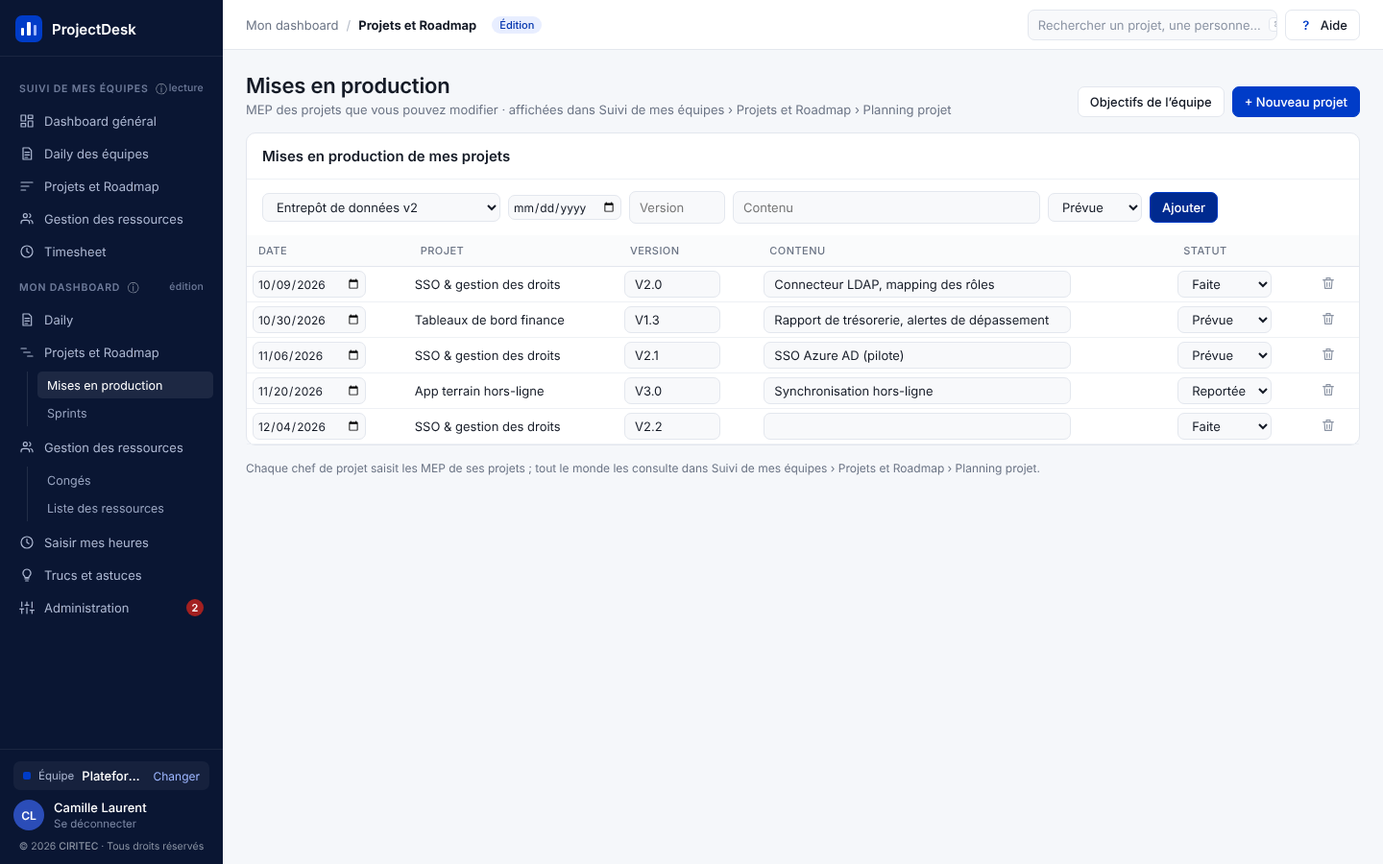
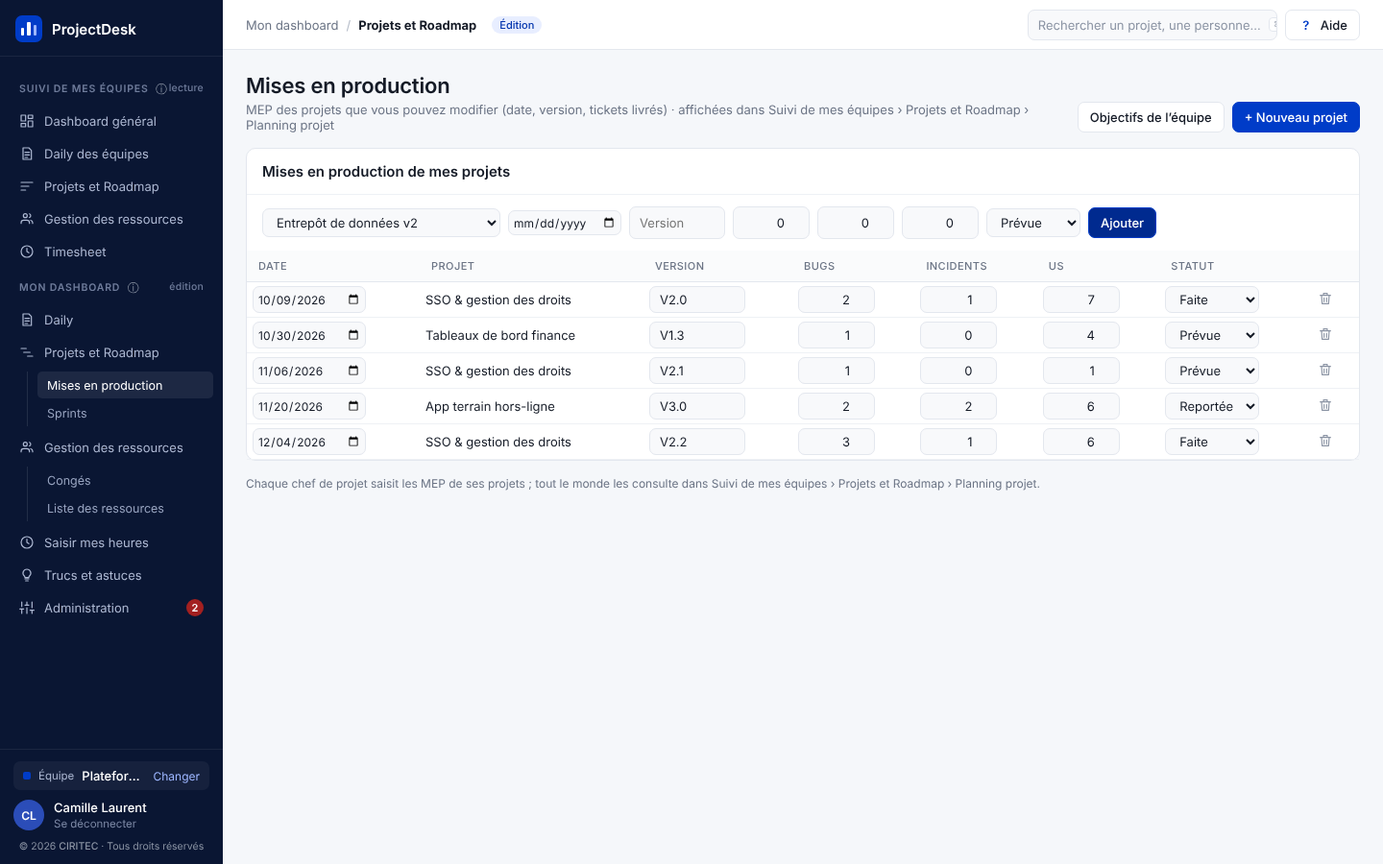
MEP : nombre de bugs, incidents et US livrés à la place du contenu (2.44, migration 044)
Claude-Session: https://claude.ai/code/session_016gJ86ah3wuZcBiGAqfo7RG

diff --git a/app/js/ecrans/mes-projets.js b/app/js/ecrans/mes-projets.js
@@ -7,6 +7,16 @@
    ============================================================ */
 'use strict';
 
+/* Tickets livrés par une mise en production (porteur 2026-10-24, migration 044) : le nombre de Bug, Incident
+   et US, dans cet ordre ; `champ` = colonne de mises_en_production, `cle` = nom du champ du formulaire d'ajout */
+const COMPTEURS_MEP = [
+  { cle: 'bugs', champ: 'nbBugs', libelle: 'Bugs', titre: 'Nombre de bugs livrés' },
+  { cle: 'incidents', champ: 'nbIncidents', libelle: 'Incidents', titre: 'Nombre d’incidents livrés' },
+  { cle: 'us', champ: 'nbUs', libelle: 'US', titre: 'Nombre d’US livrées' }
+];
+// Entier positif ou nul saisi dans un champ (vide ou invalide = 0)
+const nombreEntier = texte => Math.max(0, Math.floor(Number(texte) || 0));
+
 Ecrans.mesProjets = {
   titre: 'Projets et Roadmap',
   section: 'moi',
@@ -14,7 +24,8 @@ Ecrans.mesProjets = {
     const actions = `<button class="btn" data-action="ouvrirObjectifs">Objectifs de l’équipe</button>
       <button class="btn primaire" data-action="nouveauProjet">+ Nouveau projet</button>`;
     return `<div class="ecran">${C.entete('Mises en production',
-      'MEP des projets que vous pouvez modifier · affichées dans Suivi de mes équipes › Projets et Roadmap › Planning projet', actions)}${this.mep()}</div>`;
+      'MEP des projets que vous pouvez modifier (date, version, tickets livrés) · ' +
+      'affichées dans Suivi de mes équipes › Projets et Roadmap › Planning projet', actions)}${this.mep()}</div>`;
   },
 
   /* Formulaire d'ajout puis liste modifiable des MEP des projets que je peux modifier
@@ -23,17 +34,20 @@ Ecrans.mesProjets = {
     const projets = etat.d.projets.filter(peutEditerProjet).sort(parCode);
     if (!projets.length) return `<div class="carte">${C.vide('Vous ne pouvez modifier aucun projet : pas de mise en production à saisir.')}</div>`;
     const choixProjets = projets.map(p => ({ valeur: p.id, libelle: p.nom }));
+    const champsAjout = COMPTEURS_MEP.map(c =>
+      `<input class="champ champ-nombre" type="number" min="0" name="${c.cle}" value="0" title="${c.titre}">`).join('');
+    const entetesCompteurs = COMPTEURS_MEP.map(c => `<th class="num" title="${c.titre}">${c.libelle}</th>`).join('');
     const formulaire = `<form class="ligne-flex formulaire-mep" data-action-envoi="ajouterMep">
         ${C.liste(choixProjets, projets[0].id, 'class="champ champ-compact" name="projet"')}
         <input class="champ champ-date" type="date" name="jour" required>
         <input class="champ champ-version" name="version" placeholder="Version" maxlength="40">
-        <input class="champ champ-contenu" name="contenu" placeholder="Contenu" maxlength="500">
+        ${champsAjout}
         ${C.liste(STATUTS_MEP, 'prevue', 'class="champ champ-compact" name="statut"')}
         <button class="btn primaire">Ajouter</button></form>`;
     const lignes = misesEnProductionDe(projets).map(m => this.ligneMep(m)).join('');
     return `<div class="carte"><div class="carte-titre"><h2>Mises en production de mes projets</h2></div>${formulaire}
-        <table class="tableau tableau-sprints"><thead><tr><th>Date</th><th>Projet</th><th>Version</th><th>Contenu</th><th>Statut</th><th></th></tr></thead>
-          <tbody>${lignes || `<tr><td colspan="6" class="pale">Aucune mise en production saisie.</td></tr>`}</tbody></table></div>
+        <table class="tableau tableau-sprints"><thead><tr><th>Date</th><th>Projet</th><th>Version</th>${entetesCompteurs}<th>Statut</th><th></th></tr></thead>
+          <tbody>${lignes || `<tr><td colspan="8" class="pale">Aucune mise en production saisie.</td></tr>`}</tbody></table></div>
       <div class="discret texte-12">Chaque chef de projet saisit les MEP de ses projets ; tout le monde les consulte dans
         Suivi de mes équipes › Projets et Roadmap › Planning projet.</div>`;
   },
@@ -43,7 +57,8 @@ Ecrans.mesProjets = {
     return `<tr><td><input class="champ champ-date" type="date" value="${m.jour}" ${attr('jour')}></td>
       <td>${C.esc(p.nom)}</td>
       <td><input class="champ champ-version" value="${C.esc(m.version || '')}" maxlength="40" ${attr('version')}></td>
-      <td><input class="champ champ-contenu" value="${C.esc(m.contenu || '')}" maxlength="500" ${attr('contenu')}></td>
+      ${COMPTEURS_MEP.map(c =>
+        `<td><input class="champ champ-nombre" type="number" min="0" value="${m[c.champ] || 0}" ${attr(c.champ)}></td>`).join('')}
       <td>${C.liste(STATUTS_MEP, m.statut, `class="champ champ-compact" ${attr('statut')}`)}</td>
       <td>${C.boutonIcone('supprimer', 'supprimerMep', `data-id="${m.id}"`, 'Supprimer cette mise en production')}</td></tr>`;
   }
@@ -56,11 +71,12 @@ Object.assign(Actions, {
   ajouterMep(d, form) {
     const f = Object.fromEntries(new FormData(form));
     executer(() => Api.creer('mises_en_production', { projetId: f.projet, jour: f.jour, version: f.version.trim() || null,
-      contenu: f.contenu.trim() || null, statut: f.statut }), 'misesEnProduction');
+      ...Object.fromEntries(COMPTEURS_MEP.map(c => [c.champ, nombreEntier(f[c.cle])])), statut: f.statut }), 'misesEnProduction');
   },
   // Modification d'un champ ; la date est obligatoire (on remet l'ancienne valeur si elle est vidée)
   majMep(d, el) {
-    const valeur = el.value.trim() || null;
+    const compteur = COMPTEURS_MEP.some(c => c.champ === d.champ);
+    const valeur = compteur ? nombreEntier(el.value) : el.value.trim() || null;
     if (d.champ === 'jour' && !valeur) {
       el.value = etat.d.misesEnProduction.find(m => m.id === d.id).jour;
       return notifier('La date de la MEP est obligatoire', 'erreur');

diff --git a/app/index.html b/app/index.html
@@ -11,7 +11,7 @@
 <link href="https://fonts.googleapis.com/css2?family=IBM+Plex+Sans:wght@400;500;600;700&family=IBM+Plex+Mono:wght@400;500&display=swap" rel="stylesheet">
 <!-- ?v= : version des fichiers (= version du DAT), à changer à chaque livraison : force le navigateur
      à recharger le code au lieu de réutiliser une ancienne copie en mémoire. -->
-<link rel="stylesheet" href="css/theme.css?v=2.43">
+<link rel="stylesheet" href="css/theme.css?v=2.44">
 </head>
 <body>
   <!-- Toute l'interface est dessinée dans #app par js/coquille.js et js/ecrans/*.js -->
@@ -19,32 +19,32 @@
   <div id="notification" class="notification" role="status"></div>
 
   <!-- Ordre de chargement : configuration, outils, état, puis écrans (qui s'enregistrent dans Ecrans) -->
-  <script src="js/config.js?v=2.43"></script>
-  <script src="js/api.js?v=2.43"></script>
-  <script src="js/calculs.js?v=2.43"></script>
-  <script src="js/etat.js?v=2.43"></script>
-  <script src="js/composants.js?v=2.43"></script>
-  <script src="js/coquille.js?v=2.43"></script>
-  <script src="js/panneau-projet.js?v=2.43"></script>
-  <script src="js/modale.js?v=2.43"></script>
-  <script src="js/excel.js?v=2.43"></script>
-  <script src="js/roles.js?v=2.43"></script>
-  <script src="js/simulation.js?v=2.43"></script>
-  <script src="js/ecrans/connexion.js?v=2.43"></script>
-  <script src="js/ecrans/choix-equipe.js?v=2.43"></script>
-  <script src="js/ecrans/dashboard.js?v=2.43"></script>
-  <script src="js/ecrans/projets.js?v=2.43"></script>
-  <script src="js/ecrans/ressources.js?v=2.43"></script>
-  <script src="js/ecrans/administration.js?v=2.43"></script>
-  <script src="js/ecrans/timesheet.js?v=2.43"></script>
-  <script src="js/ecrans/daily-equipes.js?v=2.43"></script>
-  <script src="js/ecrans/daily.js?v=2.43"></script>
-  <script src="js/ecrans/mes-projets.js?v=2.43"></script>
-  <script src="js/ecrans/sprints.js?v=2.43"></script>
-  <script src="js/ecrans/conges.js?v=2.43"></script>
-  <script src="js/ecrans/liste-ressources.js?v=2.43"></script>
-  <script src="js/ecrans/mon-timesheet.js?v=2.43"></script>
-  <script src="js/ecrans/mon-admin.js?v=2.43"></script>
-  <script src="js/ecrans/astuces.js?v=2.43"></script>
+  <script src="js/config.js?v=2.44"></script>
+  <script src="js/api.js?v=2.44"></script>
+  <script src="js/calculs.js?v=2.44"></script>
+  <script src="js/etat.js?v=2.44"></script>
+  <script src="js/composants.js?v=2.44"></script>
+  <script src="js/coquille.js?v=2.44"></script>
+  <script src="js/panneau-projet.js?v=2.44"></script>
+  <script src="js/modale.js?v=2.44"></script>
+  <script src="js/excel.js?v=2.44"></script>
+  <script src="js/roles.js?v=2.44"></script>
+  <script src="js/simulation.js?v=2.44"></script>
+  <script src="js/ecrans/connexion.js?v=2.44"></script>
+  <script src="js/ecrans/choix-equipe.js?v=2.44"></script>
+  <script src="js/ecrans/dashboard.js?v=2.44"></script>
+  <script src="js/ecrans/projets.js?v=2.44"></script>
+  <script src="js/ecrans/ressources.js?v=2.44"></script>
+  <script src="js/ecrans/administration.js?v=2.44"></script>
+  <script src="js/ecrans/timesheet.js?v=2.44"></script>
+  <script src="js/ecrans/daily-equipes.js?v=2.44"></script>
+  <script src="js/ecrans/daily.js?v=2.44"></script>
+  <script src="js/ecrans/mes-projets.js?v=2.44"></script>
+  <script src="js/ecrans/sprints.js?v=2.44"></script>
+  <script src="js/ecrans/conges.js?v=2.44"></script>
+  <script src="js/ecrans/liste-ressources.js?v=2.44"></script>
+  <script src="js/ecrans/mon-timesheet.js?v=2.44"></script>
+  <script src="js/ecrans/mon-admin.js?v=2.44"></script>
+  <script src="js/ecrans/astuces.js?v=2.44"></script>
 </body>
 </html>

diff --git a/tests/parcours.js b/tests/parcours.js
@@ -367,14 +367,23 @@ const verifier = (nom, condition, detail = '') => { resultats.push({ nom, ok: !!
     await page.selectOption('form[data-action-envoi="ajouterMep"] [name=projet]', idProjetMep);
     await page.fill('form[data-action-envoi="ajouterMep"] [name=jour]', '2026-12-04');
     await page.fill('form[data-action-envoi="ajouterMep"] [name=version]', 'V2.2');
+    await page.fill('form[data-action-envoi="ajouterMep"] [name=bugs]', '3');
+    await page.fill('form[data-action-envoi="ajouterMep"] [name=incidents]', '1');
+    await page.fill('form[data-action-envoi="ajouterMep"] [name=us]', '5');
     await page.click('form[data-action-envoi="ajouterMep"] button'); await page.waitForTimeout(300);
     const ajoutee = await page.evaluate(() => etat.d.misesEnProduction.find(m => m.version === 'V2.2'));
     await page.selectOption(`[data-action-change="majMep"][data-id="${ajoutee.id}"][data-champ="statut"]`, 'faite'); await page.waitForTimeout(300);
     const statutModifie = await page.evaluate(id => etat.d.misesEnProduction.find(m => m.id === id).statut, ajoutee.id);
+    // Tickets livrés (migration 044) : à la place du contenu ; un compteur se modifie dans la ligne
+    await page.fill(`[data-action-change="majMep"][data-id="${ajoutee.id}"][data-champ="nbUs"]`, '6');
+    await page.press(`[data-action-change="majMep"][data-id="${ajoutee.id}"][data-champ="nbUs"]`, 'Tab'); await page.waitForTimeout(300);
+    const tickets = await page.evaluate(id => { const m = etat.d.misesEnProduction.find(x => x.id === id); return [m.nbBugs, m.nbIncidents, m.nbUs].join('/'); }, ajoutee.id);
     await capture('09b-saisie-mep');
     await page.click(`[data-action="supprimerMep"][data-id="${ajoutee.id}"]`); await page.waitForTimeout(300);
     verifier('Mon dashboard › Projets et Roadmap › MEP : ajout, changement de statut et suppression d’une MEP',
       mepAvant >= 2 && ajoutee.statut === 'prevue' && statutModifie === 'faite' && await nbMep() === mepAvant, `${mepAvant} / ${statutModifie}`);
+    verifier('MEP : nombre de bugs, d’incidents et d’US livrés (à la place du contenu), modifiable', ajoutee.nbBugs === 3 && ajoutee.nbIncidents === 1
+      && ajoutee.nbUs === 5 && tickets === '3/1/6' && !(await page.$('[data-action-change="majMep"][data-champ="contenu"]')), tickets);
     await page.click('[data-action="ouvrirObjectifs"]'); await page.waitForTimeout(200);
     await page.fill('form[data-action-envoi="ajouterObjectif"] input', 'Objectif de test'); await page.click('form[data-action-envoi="ajouterObjectif"] button');
     await page.waitForTimeout(300);

diff --git a/tests/serveur-simule.js b/tests/serveur-simule.js
@@ -204,7 +204,7 @@ function amorcer() {
   bd.mises_en_production = [['PF-14', '2026-10-09', 'V2.0', 'Connecteur LDAP, mapping des rôles', 'faite'],
     ['DA-08', '2026-10-30', 'V1.3', 'Rapport de trésorerie, alertes de dépassement', 'prevue'], ['PF-14', '2026-11-06', 'V2.1', 'SSO Azure AD (pilote)', 'prevue'],
     ['MO-21', '2026-11-20', 'V3.0', 'Synchronisation hors-ligne', 'reportee']]
-    .map(([code, jour, version, contenu, statut]) => ({ id: uuid(), projet_id: idProjet(code), jour, version, contenu, statut }));
+    .map(([code, jour, version, contenu, statut]) => ({ id: uuid(), projet_id: idProjet(code), jour, version, contenu, statut, nb_bugs: contenu.length % 4, nb_incidents: contenu.length % 3, nb_us: contenu.length % 7 + 1 }));
   bd.notes_daily_projet = [
     { user_id: thomas.id, jour: jourJ, projet_id: idProjet('PF-14'), texte: 'Hier\n- Connecteur LDAP : corrections de revue\n\nAujourd’hui\n- Mapping des rôles applicatifs\n\nBlocages\n- Identifiants de recette expirés' },
     { user_id: camille.id, jour: jourJ, projet_id: idProjet('PF-14'), texte: 'Hier\n- Revue de la PR connecteur LDAP avec Thomas\n\nAujourd’hui\n- Finaliser le plan de migration SSO\n\nBlocages\n- Accès annuaire côté DSI toujours en attente' }];

diff --git a/app/js/config.js b/app/js/config.js
@@ -272,7 +272,8 @@ const GUIDE_ECRANS = {
   daily: ['Un daily par projet où vous êtes affecté(e) : Hier, Aujourd’hui, Blocages ; tapez, il s’enregistre automatiquement.',
     'Un jour de congé (Congés), aucun daily n’est attendu. Le champ « Hier » rappelle ce que vous aviez prévu la veille.'],
   mesProjets: ['« + Nouveau projet » crée un projet dans votre équipe ; un projet se modifie depuis Liste des ressources.',
-    'Saisissez les mises en production (date, version, contenu, statut) des projets que vous pouvez modifier ; chaque champ s’enregistre dès qu’il change.',
+    'Saisissez les mises en production (date, version, nombre de bugs, d’incidents et d’US livrés, statut) des projets que vous pouvez modifier ; ' +
+    'chaque champ s’enregistre dès qu’il change.',
     'Tout le monde les voit dans Suivi de mes équipes › Projets et Roadmap › Planning projet (repères ▲).'],
   mesSprints: ['Créez les sprints de chaque projet : numéro, année, version, date de début et de fin ; chaque champ s’enregistre dès qu’il change.',
     'Ils s’affichent dans Suivi de mes équipes › Projets et Roadmap › Planning projet.'],

diff --git a/app/js/ecrans/projets.js b/app/js/ecrans/projets.js
@@ -104,7 +104,9 @@ const PlanningProjet = {
   // Repère d'une mise en production : ▲ + version à sa date, couleur de son statut, détail en infobulle
   repereMep(m, per) {
     const statut = STATUTS_MEP.find(x => x.valeur === m.statut) || STATUTS_MEP[0];
-    const titre = `MEP ${m.version || ''} · ${Calculs.formatCourt(m.jour)} · ${statut.libelle}${m.contenu ? ' : ' + m.contenu : ''}`;
+    // Tickets livrés (migration 044) : « 5 US · 3 bugs · 1 incidents », vide si aucun
+    const tickets = m.nbBugs || m.nbIncidents || m.nbUs ? ` : ${m.nbUs || 0} US · ${m.nbBugs || 0} bugs · ${m.nbIncidents || 0} incidents` : '';
+    const titre = `MEP ${m.version || ''} · ${Calculs.formatCourt(m.jour)} · ${statut.libelle}${tickets}`;
     return `<div class="gantt-mep" style="left:${per.position(m.jour)}%;color:${TONS[statut.ton].texte}" title="${C.esc(titre)}">▲ ${C.esc(m.version || 'MEP')}</div>`;
   },
   anneeMois(iso) { const d = Calculs.depuisIso(iso); return [d.getFullYear(), d.getMonth()]; },

diff --git a/app/css/theme.css b/app/css/theme.css
@@ -149,7 +149,7 @@ table.tableau { width: 100%; border-collapse: collapse; }
 .couleur-primaire { color: var(--primaire); }
 /* Saisie des MEP (Mon dashboard › Projets et Roadmap › Mises en production), 2026-10-23 */
 .formulaire-mep { gap: 8px; padding: 12px 16px; flex-wrap: wrap; }
-.champ.champ-version { width: 100px; } .champ.champ-contenu { width: 320px; }
+.champ.champ-version { width: 100px; } .champ.champ-nombre { width: 80px; text-align: right; }
 .gantt-jour { position: absolute; top: 0; bottom: 0; width: 1px; background: var(--primaire); opacity: .5; }
 .gantt-mois { display: grid; grid-template-columns: 300px minmax(0, 1fr); border-bottom: 1px solid var(--bordure); background: var(--fond-entete); }
 .gantt-mois .mois { display: flex; } .gantt-mois .mois div { border-left: 1px solid var(--bordure-fine); padding: 9px 8px; font-size: 11px; text-transform: uppercase; letter-spacing: .04em; color: var(--discret); }

diff --git a/docs/DAT.md b/docs/DAT.md
@@ -158,6 +158,7 @@
 | 2.41    | 2026-10-23 | **Capacité retirée** (porteur : « supprime tout ce qui est en rapport avec plan de charge, capacité ») : menu, écran `capacite.js`, pop-in « Méthode de calcul Scrum », droit `onglet_conges_capacite` (ligne de la matrice), calculs `velocite` / `repartitionSprint`, constantes `REPARTITION_SPRINT` / `SPRINTS_MOYENNE_VELOCITE`, aides, tests et captures 11b-11c supprimés. **Conservés** : le champ `capacite` (%) de la fiche d'une personne (il sert aux heures attendues du timesheet), `Calculs.capacitePeriode` / `capaciteScrum` (exemples chiffrés de Trucs et astuces), et le glossaire des KPI Agile. 135 contrôles. **Aucune donnée touchée (règle n°8)** : `repartitions_sprint` et les points des sprints restent en base, non lus. |
 | 2.42    | 2026-10-23 | **Périmètre de lecture et de modification par rôle** (porteur : « Thomas n'est pas affecté au projet CDO mais il peut paramétrer des sprints, il voit les éléments CDO … le responsable d'une équipe ne peut pas voir les éléments d'une autre équipe » ; règles validées « oui ») : migrations **042** et **043** (fonctions et règles seulement, **aucune donnée touchée** : 3 équipes, 7 projets, 7 personnes, 14 affectations, 155 absences, 1 temps, 2 sprints avant et après). Avant : toute personne membre d'UNE équipe lisait les projets, personnes, absences et temps de TOUTES les équipes (`est_membre_equipe`), et tout membre d'une équipe modifiait / supprimait ses projets. Maintenant : administrateur et créateur tout ; direction / responsable leur unité et sous-unités ; projet / utilisateur eux-mêmes, leurs projets et les personnes de ces projets ; heures et feuilles de temps : la personne et ceux qui gèrent son unité ; un rattachement (`membres_equipe`) ne donne aucun droit mais permet au responsable d'accueil de voir la fiche et les absences. Modifier ou supprimer un projet : responsable / direction de l'unité ou affecté Chef de projet / Membre. Côté écran : `equipesGerees()` et `appliquerPerimetre()` (`etat.js`) font voir à la **simulation** exactement ce que verrait la personne ; `travailleSurLeProjet` ne retient plus « membre de l'équipe ». Les écrans (Liste des ressources, Daily, Dashboard…) n'affichent donc que ce qui est lisible. 137 contrôles (§ 3, § 5) |
 | 2.43    | 2026-10-24 | **Les projets s'affichent par leur nom, plus par leur code** (porteur : « je ne veux plus en front qu'on affiche l'ID (APP-02) des projets, je veux leurs noms ») : code retiré de tous les écrans (Timesheet de Suivi — colonne Projets en étiquettes de noms, Liste des ressources, panneau projet, Daily, Daily des équipes, Projets et Roadmap, Mes projets, Sprints, Gestion des ressources, Rôles, fenêtres d'affectation et d'envoi du daily, listes déroulantes). Le code reste en base, dans la recherche et dans les exports Excel du daily ; les codes des objectifs, résultats clés et équipes sont inchangés. Aucune donnée touchée. 137 contrôles |
+| 2.44    | 2026-10-24 | **Mises en production : tickets livrés à la place du contenu** (porteur : « Mon dashboard › mise en production : à la place de contenu je veux le nombre de tickets Bug, Incident, US livrés ») : migration **044** additive (colonnes `nb_bugs`, `nb_incidents`, `nb_us`, entier ≥ 0, défaut 0 ; **aucune donnée touchée**, table vide avant et après ; la colonne `contenu` est conservée mais n'est plus affichée) ; cache de la Data API rechargé ; Mon dashboard › Projets et Roadmap › Mises en production : trois colonnes numériques Bugs / Incidents / US (ajout et modification en ligne) ; l'infobulle du repère ▲ du Planning projet affiche « 5 US · 3 bugs · 1 incidents ». 138 contrôles |
 | 1.44    | 2026-09-27 | Calcul type Scrum : formule déplacée dans une pop-in (bouton « Comment est-ce calculé ? » en haut à droite), avec un exemple chiffré sur CDO (membres, jours ouvrés, absences, cérémonies, focus) (§ 2.1, § 3.3) |
 
 ---
@@ -281,7 +282,7 @@ règlent l'**affichage** ; ce qu'on peut modifier reste contrôlé par la base (
 | Écran | Fichier | Contenu | Capture |
 |-------|---------|---------|---------|
 | `daily` | `daily.js` | **Un daily par projet** où je suis affecté(e) (Chef de projet, Membre ; projet en cours) — maquette `daily-par-projet/` : par projet trois champs **Hier (la veille)**, **Aujourd’hui**, **Blocages** (enregistrement auto après 0,8 s), « Hier » rappelle l'« Aujourd'hui » de la veille ; « n / N projets renseignés » ; **lié aux congés** : jour d'absence d'une journée → « aucun daily attendu », cartes repliées (demi-journée : saisie ouverte) ; historique (projets renseignés ou congé) | `08-daily.png` |
-| `mesProjets` | `mes-projets.js` | Menu **Projets et Roadmap** à sous-menus dans la barre latérale (Mises en production, Sprints), comme Gestion des ressources (2.37-2.38, maquettes `menu-projets-roadmap/`, `planning-projet/`) : **Mises en production** (2.33 : saisie des MEP des projets que je peux modifier — `peutEditerProjet` — projet, date, version, contenu, statut `STATUTS_MEP` ; chaque champ s'enregistre dès qu'il change ; affichées dans Suivi › Projets et Roadmap › Planning projet) ; boutons « + Nouveau projet » et « Objectifs de l'équipe ». Sous-menu Gantt retiré (2.38 : le planning projet est dans Suivi de mes équipes). Un projet se modifie depuis Liste des ressources | `09-mes-projets.png`, `09b-saisie-mep.png`, `10-panneau-projet.png` |
+| `mesProjets` | `mes-projets.js` | Menu **Projets et Roadmap** à sous-menus dans la barre latérale (Mises en production, Sprints), comme Gestion des ressources (2.37-2.38, maquettes `menu-projets-roadmap/`, `planning-projet/`) : **Mises en production** (2.33 : saisie des MEP des projets que je peux modifier — `peutEditerProjet` — projet, date, version, **nombre de bugs, d'incidents et d'US livrés** (2.44, à la place du contenu), statut `STATUTS_MEP` ; chaque champ s'enregistre dès qu'il change ; affichées dans Suivi › Projets et Roadmap › Planning projet) ; boutons « + Nouveau projet » et « Objectifs de l'équipe ». Sous-menu Gantt retiré (2.38 : le planning projet est dans Suivi de mes équipes). Un projet se modifie depuis Liste des ressources | `09-mes-projets.png`, `09b-saisie-mep.png`, `10-panneau-projet.png` |
 | `mesSprints` | `sprints.js` | Sous-menu **Sprints** de Projets et Roadmap (2.39, maquette `sprints-mon-dashboard/` ; auparavant onglet Sprints de Mon dashboard › Administration, code et droit `onglet_admin_sprints` déplacés) : choix du projet et de l'année, une ligne par sprint (Sprint n°, année, version, début, fin ; modifiable selon `peutEditerProjet`, suppression), ligne d'ajout. Les sprints s'affichent dans Suivi › Projets et Roadmap › Planning projet et servent à Capacité (bouton « Sprints du projet » → ce sous-menu) | `09c-sprints.png` |
 | `conges` | `conges.js` | Sous-menu **Congés** (« Congés & capacité » jusqu'à 2.25) — deux **onglets** : Grille mensuelle éditable (« pinceau » par type d'absence ; sélecteur **Par équipe** (chaque personne une seule fois sous son unité, responsable en tête, étiquettes de ses projets, puis synthèse « absents / membres » par projet) / **Par projet** (membres du projet choisi + sa synthèse) — maquettes `conges-sans-doublon/`, pistes 2 et 3), Récap annuel (reprise de l'onglet « Jours de congés » du porteur : par mois T = travaillés / C = congés (fériés exclus), totaux, **reste à prendre** = total travaillé − jours attendus par le client, objectif modifiable par équipe et par année — maquette `recap-jours-travailles.png`). | `11-conges.png` |
 | `listeRessources` | `liste-ressources.js` | Maquette `liste-ressources-ux/3-navigation-detail.png` (depuis 1.90). **Navigation à gauche** : les équipes (le niveau direction n'est pas affiché : les équipes d'une direction sont listées directement ; une direction reste listée si elle porte elle-même des projets ou des personnes, ou si elle est vide), sous chacune son responsable (`responsable_id`) et ses projets (nombre de personnes) ; recherche sur équipes, projets et personnes ; en bas **Postes** et **Types de contrat**. **Détail à droite** de l'élément choisi (`ui.listeRessources.choix`, défaut : équipe ouverte) — *équipe* : modifier / supprimer (unité vide seulement), carte du responsable (« Hors projet » s'il n'est affecté à aucun projet, « Comptée dans Congés & capacité »), tableau des projets (statut, Product Owners, membres ; clic → projet), **Membres de l'équipe** (toute l'équipe, avec ses projets « VISTA · PO », puis la section « Rattachées depuis une autre équipe » : `membres_equipe`, badge « Équipe d'origine », « Retirer »), « + Projet », « + Personne existante » (rattacher, même sans projet ; maquette `membres-equipe/`), « + Personne » ; *projet* : indicateurs (Product Owners, membres, départs prévus), « Modifier le projet », **Product Owners** = affectations au rôle « Chef de projet » (+ chef de la fiche projet), plusieurs possibles, « + Ajouter un Product Owner » ; **Membres** (et lecteurs) avec rôle, « + Membre » ; *Postes / Types de contrat* : valeurs, nombre de ressources, statut, renommage (propagé aux fiches), suppression si inutilisée. Tableaux de personnes (depuis 1.93, maquette `role-acces/`) : sections **Actifs** et **Inactifs** repliables, poste, **Accès** (rôle d'accès : `roleAcces`), projets ou rôle sur le projet, **présence en clair** (`Calculs.libellePresence` : « depuis le … », « jusqu'au … », « partie le … »), statut **Inactif dès qu'une date de fin est saisie** (badge cliquable : rendre inactive / réactiver), lien Fiche (dates d'arrivée et de départ, **rôle d'accès**, ses projets). « + Ajouter une équipe » (administrateurs). Ouvert **sans équipe** pour un administrateur | `12-liste-ressources.png`, `18-postes.png` |
@@ -334,7 +335,7 @@ Toutes les tables métier ont `modifie_par` / `modifie_le` (trigger `tracer_modi
 | `objectifs_jours_travail` | Jours de travail attendus par le client : `equipe_id`, `annee`, `jours` (défaut `JOURS_TRAVAIL_CLIENT_DEFAUT` = 218 si absent) | clé (équipe, année) |
 | `sprints_projet` | **Sprints de chaque projet** : `projet_id`, `numero` (attribué à l'ajout), `nom` (version), `debut`, `fin` (saisis dans Mon dashboard › Projets et Roadmap › Sprints — migration 014), `numero_sprint` (affiché « Sprint N ») et `annee` (migration 015 ; un numéro par projet et par année), `points_engages`, `points_termines` (onglet Capacité — migration 013) | clé (projet, sprint) → `projets` |
 | `repartitions_sprint` | **Inutilisée depuis 2.41** (Capacité retirée, données conservées) : répartition d'un sprint par catégorie : `projet_id`, `numero`, `categorie` , `jours` réels (migration 013, facultatif depuis la 040), `part` idéale en % (0–100, migration 040) ; au moins l'une des deux renseignée ; liée au sprint du projet (`projet_id`, `numero` → `sprints_projet`, migration 020) | clé (projet, sprint, catégorie) → `projets` |
-| `mises_en_production` | **Mises en production** des projets (migration 039, 2.33) : `id`, `projet_id` → projets (suppression du projet → ses MEP), `jour`, `version`, `contenu`, `statut` (`prevue` / `faite` / `reportee`, liste `STATUTS_MEP` de config.js) ; saisies dans Mon dashboard › Projets et Roadmap › MEP, affichées dans Suivi › Projets et Roadmap › Planning projet (repères ▲) |
+| `mises_en_production` | **Mises en production** des projets (migration 039, 2.33) : `id`, `projet_id` → projets (suppression du projet → ses MEP), `jour`, `version`, `nb_bugs`, `nb_incidents`, `nb_us` (tickets livrés, migration 044, 2.44), `contenu` (**inutilisée depuis 2.44**, texte conservé), `statut` (`prevue` / `faite` / `reportee`, liste `STATUTS_MEP` de config.js) ; saisies dans Mon dashboard › Projets et Roadmap › MEP, affichées dans Suivi › Projets et Roadmap › Planning projet (repères ▲) |
 | `envois_daily_projet` | **Envoi du daily par projet** (migration 019) : `projet_id` (clé), `mode`, `heure`, `jours`, `sans_feries`, `destinataires` | une ligne par projet |
 | `previsions_temps` | **Inutilisée depuis 2.40** (Plan de charge retiré, données conservées) : % du temps d'une personne sur un projet (migration 021) ; clé (`projet_id`, `ressource_id`) liée à l'affectation (supprimée avec elle) | une ligne par affectation planifiée |
 | `types_tache_projet` | **Inutilisée depuis 2.40** : types de tâche d'un projet et leur % cible (`libelle`, `part`, `ordre`), ex. CDO : US 36 %, Incident 20 % (migration 021) | plusieurs par projet |
@@ -524,7 +525,7 @@ refusée sur `referentiels` et `administrateurs` (usurpation).
 | Outil | Contenu |
 |-------|---------|
 | `tests/serveur-simule.js` | Neon Auth (dont Google simulé) + Data API simulés en mémoire, identifiants numérotés (et non aléatoires) pour des captures reproductibles, données de la maquette (comptes `camille@test.fr` administratrice/owner, `thomas@test.fr` membre, `elodie@test.fr` demandeuse, `admin@test.fr` administratrice sans équipe ; mot de passe `motdepasse`) |
-| `tests/parcours.js` | Parcours Playwright de bout en bout (137 contrôles, dont « Suivi de mes équipes en lecture seule », l'aller-retour Google simulé, le parcours administrateur sans équipe, le daily des équipes, l'export Excel du daily, le plan de charge et le board des ressources) + captures `docs/maquettes/etat-actuel/` |
+| `tests/parcours.js` | Parcours Playwright de bout en bout (138 contrôles, dont « Suivi de mes équipes en lecture seule », l'aller-retour Google simulé, le parcours administrateur sans équipe, le daily des équipes, l'export Excel du daily, le plan de charge et le board des ressources) + captures `docs/maquettes/etat-actuel/` |
 | `scripts/verifier-docs.js` | Cohérence documentation ↔ code après chaque commit (§ 11) |
 
 Les règles RLS ne sont pas simulées : elles sont vérifiées en base et lors de la recette réelle.
